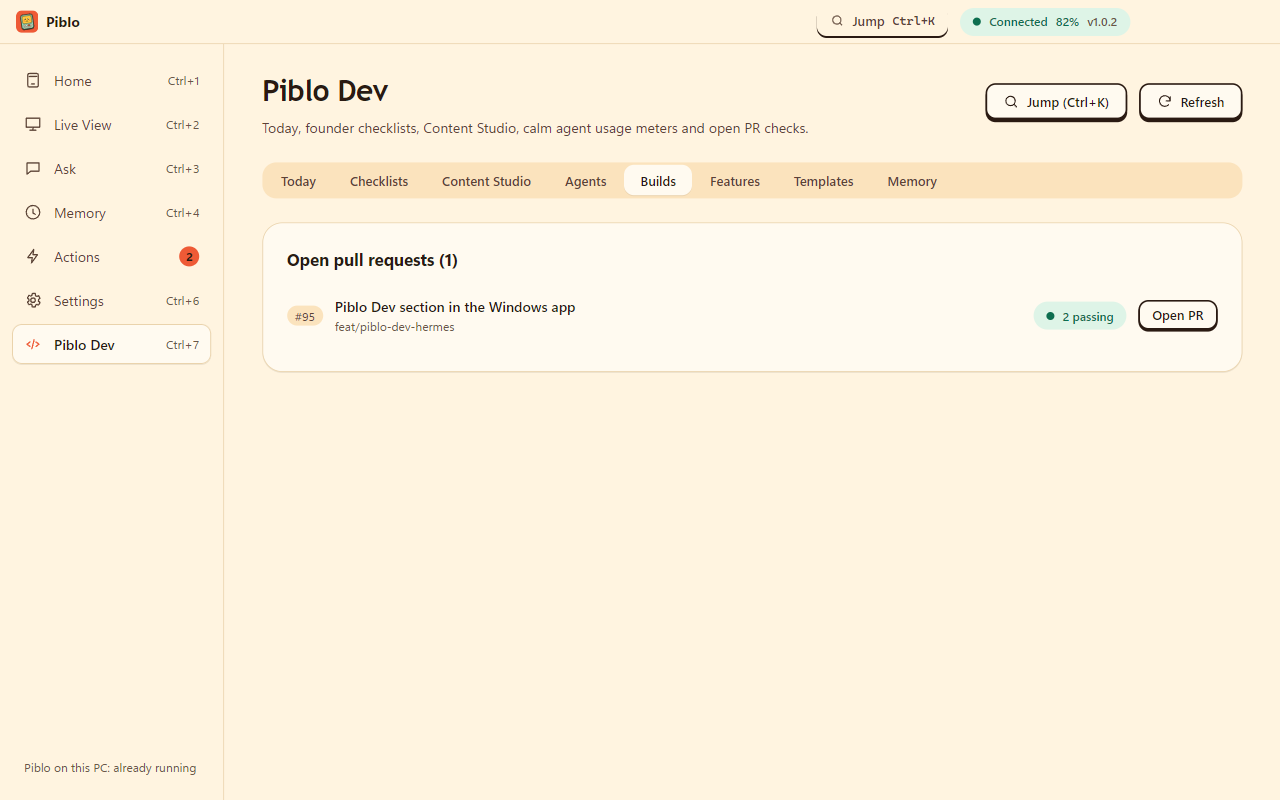
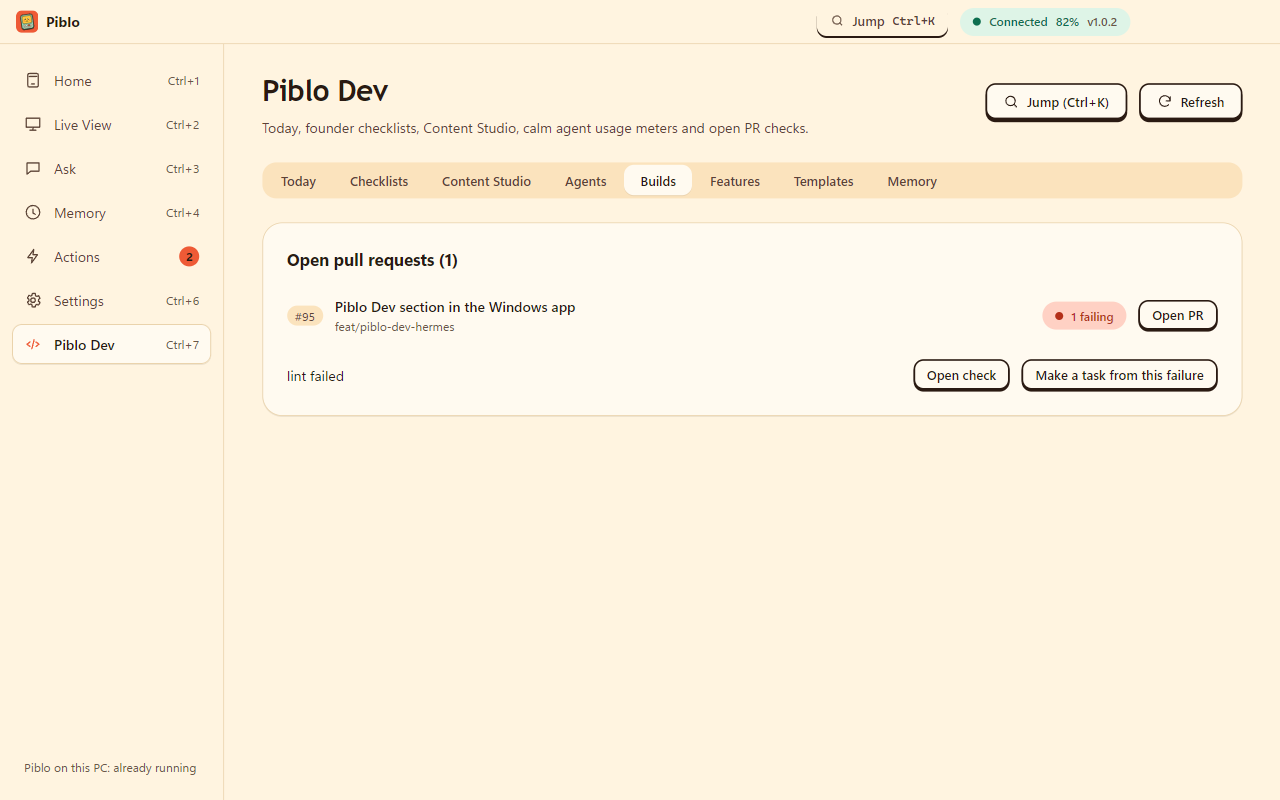
Keep failing check details readable

Changed region(s): [[0.6875, 0.375, 0.9688, 0.5], [0.2188, 0.4375, 0.2812, 0.5]]

diff --git a/app/src/pages/PibloDev.tsx b/app/src/pages/PibloDev.tsx
@@ -764,7 +764,8 @@ export function DevBuildsView({
           const summary = prCheckSummary(pr);
           const pillCls = summary.state === 'ok' ? 'ok' : summary.state === 'bad' ? 'bad' : summary.state === 'pending' ? 'warn' : '';
           return (
-            <div className="list-item wrap" key={pr.number}>
+            <div className="stack" key={pr.number}>
+              <div className="list-item">
               <span className="tag">#{pr.number}</span>
               <div className="grow">
                 <div className="title">{pr.title}</div>
@@ -779,6 +780,7 @@ export function DevBuildsView({
                   Open PR
                 </button>
               )}
+              </div>
               {(pr.statusCheckRollup ?? []).filter((check) => ['FAILURE', 'TIMED_OUT', 'CANCELLED', 'ACTION_REQUIRED'].includes(check.conclusion ?? '') || ['FAILURE', 'ERROR'].includes(check.state ?? '')).map((check, index) => {
                 const name = check.name || check.context || 'Check';
                 const url = check.detailsUrl || check.targetUrl;
